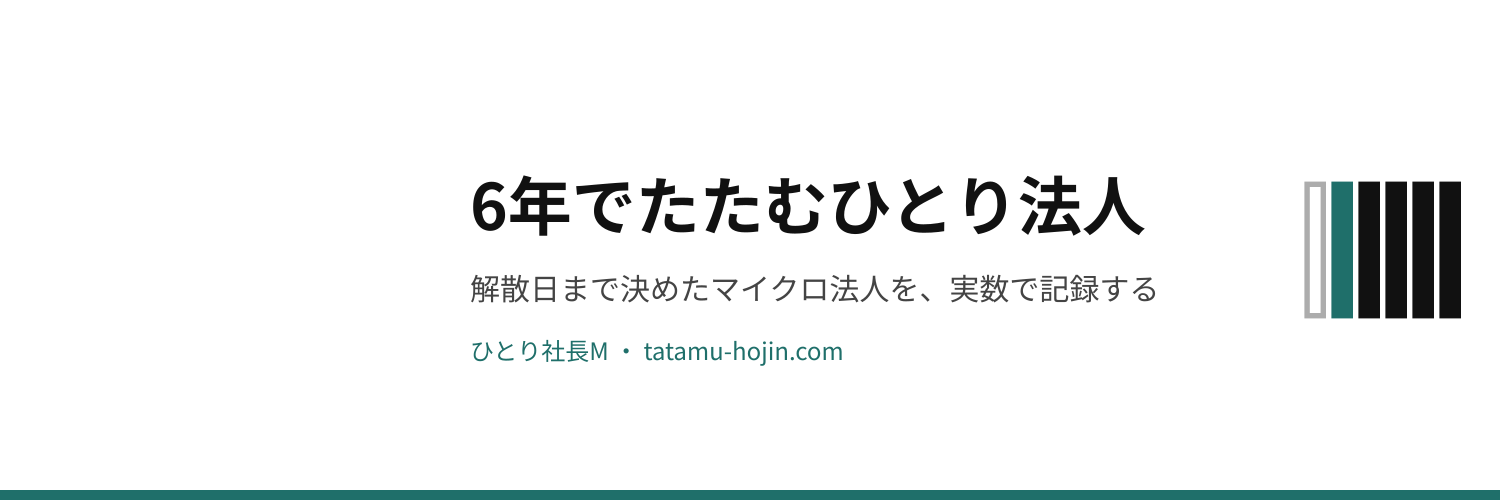
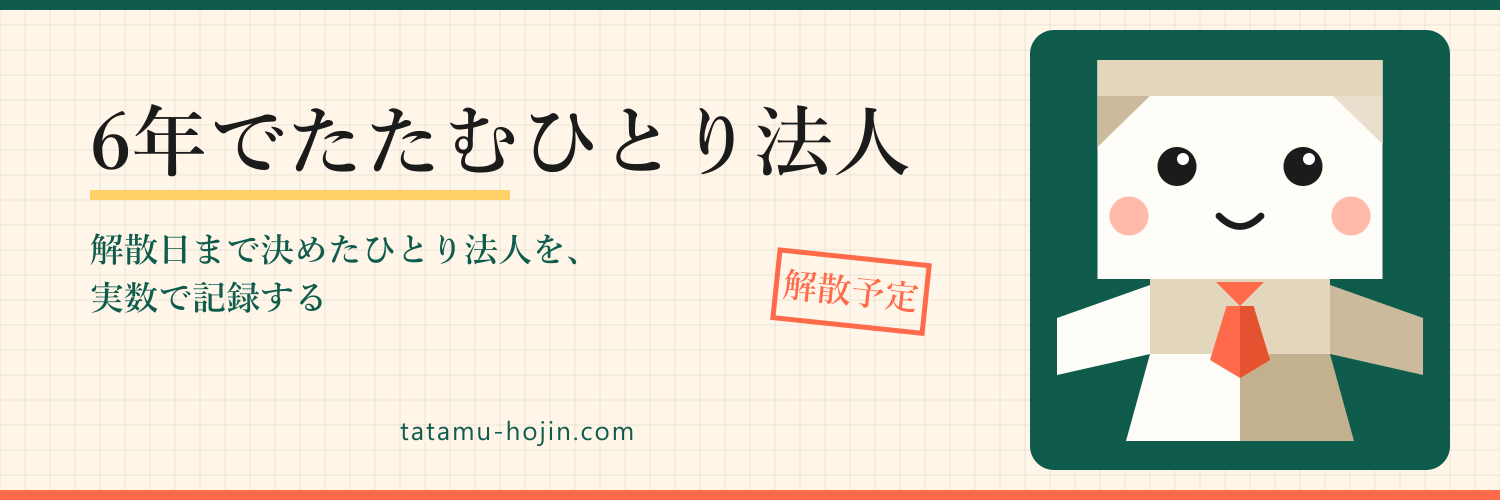
キャラクター『やっこさん社長』をロゴ・X画像・プロフィールに反映

diff --git a/src/lib/og.ts b/src/lib/og.ts
@@ -130,6 +130,7 @@ ${gridSvg()}
 ${motifSvg(theme.motif, fg)}
 <text x="38" y="80" font-family="${MINCHO}" font-size="25" font-weight="700" fill="${fg}">6年でたたむ</text>
 <text x="38" y="114" font-family="${MINCHO}" font-size="25" font-weight="700" fill="${fg}">ひとり法人</text>
+<rect x="194" y="44" width="58" height="54" rx="8" fill="#0f5c4d"/><svg x="198" y="50" width="50" height="42" viewBox="105 72 190 146"><polygon points="105,72 295,72 295,218 105,218" fill="#fffdf8"/><polygon points="105,72 295,72 295,96 105,96" fill="#e3d6bd"/><circle cx="158" cy="143" r="16" fill="#1b1b1b"/><circle cx="242" cy="143" r="16" fill="#1b1b1b"/><circle cx="126" cy="178" r="13" fill="#ff6b4a" opacity=".5"/><circle cx="274" cy="178" r="13" fill="#ff6b4a" opacity=".5"/><path d="M184 176 Q200 192 216 176" fill="none" stroke="#1b1b1b" stroke-width="6" stroke-linecap="round"/></svg>
 <text x="38" y="200" font-family="${FONT}" font-size="22" fill="${fg}" fill-opacity=".85">6年のうち</text>
 ${cells}
 <text x="38" y="370" font-family="${FONT}" font-size="54" font-weight="700" fill="${fg}">${calm ? '設立前' : `${opts.year}<tspan font-size="30">年目</tspan>`}</text>

diff --git a/editorial/デザイン基準.md b/editorial/デザイン基準.md
@@ -33,7 +33,7 @@
 - ボックス：ポイント＝深緑のノート（左に二重線）、注意＝珊瑚、体験メモ＝黄色の付箋（テープ留め）。
 - **前日譚（prequel）では「今年」の強調に珊瑚を使わない**（マスと「設立前」は深緑）。珊瑚を装飾の差し色として使うのは可。
 - アイキャッチは部ごとに帯の色を変える（前日譚＝灰緑、構想＝深緑、設計＝青緑、設立＝墨緑、運用＝黄、月次＝墨）。右側は方眼の紙。
-- ロゴ（6本の目盛り）：経過＝珊瑚の塗り、残り＝深緑の線、地＝紙。
+- ロゴ：キャラクター「やっこさん社長」（折り紙のやっこさん。Xアイコン＝全身、ロゴ・favicon＝顔）2026-10-11 本人決定。元データ design/icons/origami-1b.svg。旧ロゴ（6本の目盛り）は廃止。
 - ダークモードは同系（地＝墨緑、主色＝明るい緑、珊瑚と黄はそのまま）。
 - 年表・目盛りに年月日や設立月は出さない（品質基準 D1）。「1年目 設立・届出・口座／2〜5年目 運営／6年目 解散・清算」まで。
 
